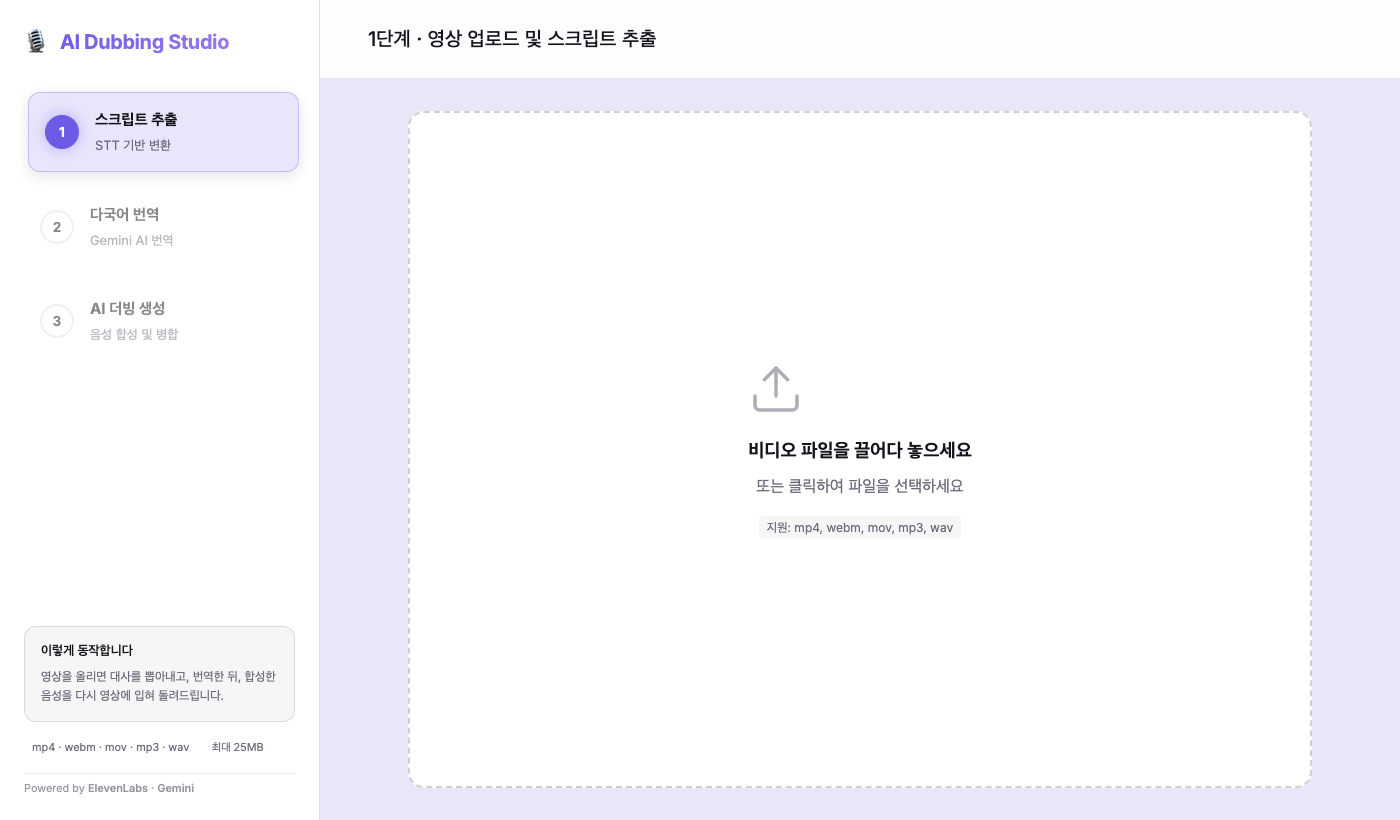
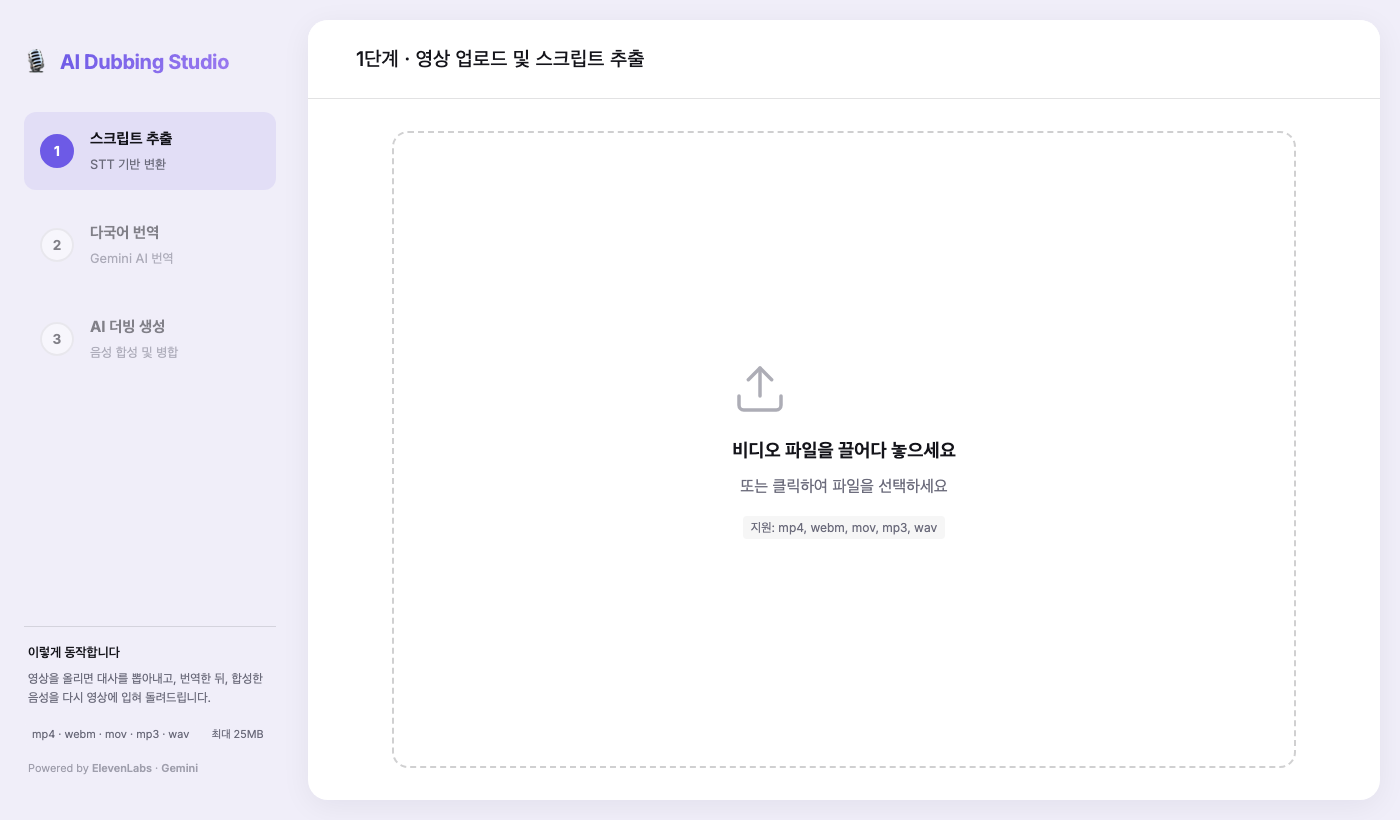
style: 구획을 걷어내고 하나의 면 위에 배치
테두리와 그림자로 영역을 나누던 방식에서, 여백과 톤으로 구분하는 방식으로 바꿨습니다.

- 사이드바 패널 배경·구분선 제거하고 캔버스에 직접 배치
- 본문을 둥근 흰 시트로 처리 (radius 20, 옅은 그림자)
- 드롭존 그림자 제거 — 시트 안이므로 점선 테두리만 유지
- 활성 단계의 테두리·그림자 제거, 옅은 톤만 남김
- 사이드바 안내 박스를 구분선과 여백으로 대체
- 배경 톤을 한 단계 낮춰(#F0EEF9) 시트가 또렷하게 보이도록 조정

diff --git a/public/styles.css b/public/styles.css
@@ -1,5 +1,5 @@
 :root {
-    --bg-dark: #E9E7F7;
+    --bg-dark: #F0EEF9;
     --bg-panel: #FFFFFF;
     --bg-card: rgba(255, 255, 255, 0.95);
     --bg-subtle: #F5F4FC;
@@ -49,13 +49,16 @@ body {
 .app-container {
     display: flex;
     height: 100vh;
+    padding: 1.25rem 1.25rem 1.25rem 0;
+    gap: 0.5rem;
+    background: var(--bg-dark);
 }
 
 /* Sidebar */
 .sidebar {
-    width: 320px;
-    background-color: var(--bg-panel);
-    border-right: 1px solid var(--border);
+    width: 300px;
+    background: transparent;
+    border-right: none;
     display: flex;
     flex-direction: column;
     padding: 1.5rem;
@@ -151,10 +154,9 @@ body {
 
 .step.active {
     opacity: 1;
-    background: rgba(var(--primary-rgb), 0.15);
-    border: 1px solid rgba(var(--primary-rgb), 0.3);
-    transform: translateX(4px);
-    box-shadow: 0 4px 15px rgba(0, 0, 0, 0.1);
+    background: rgba(var(--primary-rgb), 0.10);
+    border: none;
+    box-shadow: none;
 }
 
 .step-num {
@@ -175,7 +177,7 @@ body {
     background: var(--primary);
     border-color: var(--primary);
     color: white;
-    box-shadow: 0 0 15px rgba(var(--primary-rgb), 0.4);
+
 }
 
 .step-desc h4 {
@@ -193,7 +195,10 @@ body {
     flex-grow: 1;
     display: flex;
     flex-direction: column;
-    background: var(--bg-dark);
+    background: var(--bg-panel);
+    border-radius: 20px;
+    box-shadow: 0 6px 30px rgba(20, 20, 26, 0.06);
+    overflow: hidden;
     position: relative;
 }
 
@@ -301,7 +306,6 @@ body {
 .drop-zone:hover, .drop-zone.dragover {
     border-color: var(--primary);
     background: var(--primary-soft);
-    box-shadow: 0 10px 32px rgba(var(--primary-rgb), 0.16);
 }
 
 .upload-icon {
@@ -886,10 +890,10 @@ body {
     gap: 0.85rem;
 }
 .sidebar-note {
-    background: rgba(20, 20, 26, 0.04);
-    border: 1px solid var(--border);
-    border-radius: 12px;
-    padding: 0.9rem 1rem;
+    background: transparent;
+    border: none;
+    border-top: 1px solid var(--border);
+    padding: 1rem 0.25rem 0;
 }
 .sidebar-note h5 {
     font-size: 0.8rem;
@@ -918,9 +922,8 @@ body {
 .sidebar-powered {
     font-size: 0.68rem;
     color: var(--text-muted);
-    opacity: 0.7;
-    padding-top: 0.35rem;
-    border-top: 1px solid var(--border);
+    opacity: 0.6;
+    padding: 0 0.25rem;
 }
 .sidebar-powered b {
     font-weight: 600;
